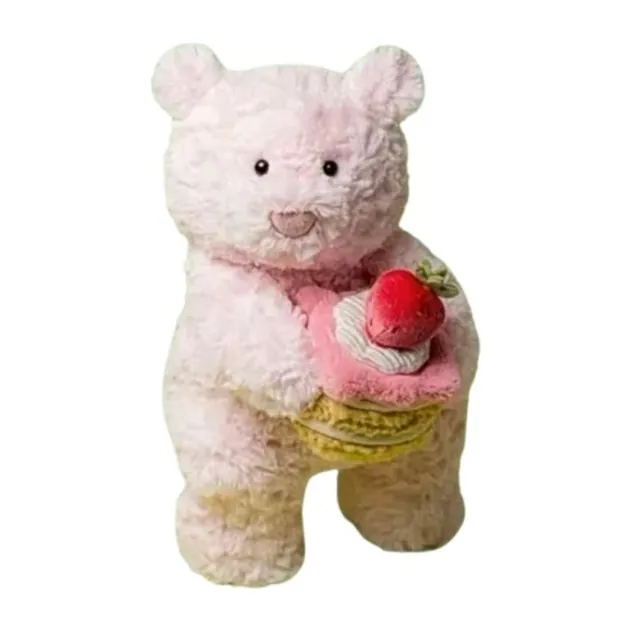
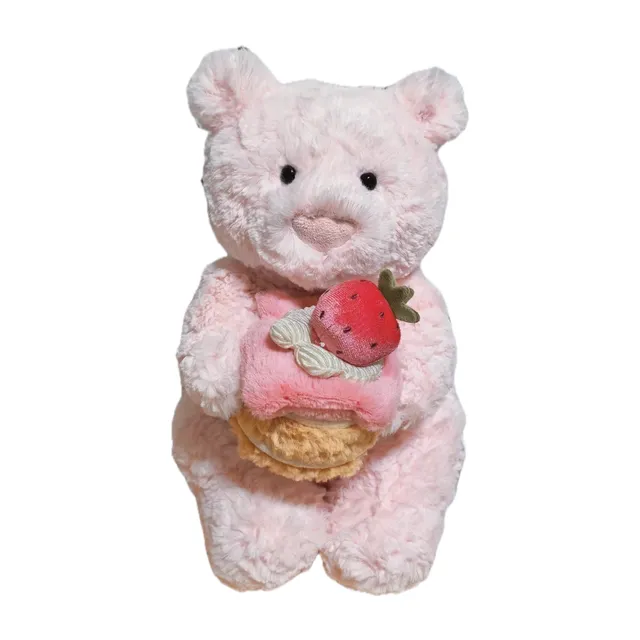
Preview: Shop đồng bộ font Bricolage + Plus Jakarta Sans; ảnh mới Leola Bear Strawberry Cake

diff --git a/bunniihaus_design.html b/bunniihaus_design.html
@@ -175,10 +175,10 @@ j=d.createElement(s),dl=l!='dataLayer'?'&l='+l:'';j.async=true;j.src=
 <link rel="preconnect" href="https://fonts.gstatic.com" crossorigin>
 <link rel="preconnect" href="https://fonts.cdnfonts.com" crossorigin>
 <!-- Fonts loaded NON-BLOCKING: text paints instantly in fallback, swaps when ready -->
-<link rel="preload" as="style" href="https://fonts.googleapis.com/css2?family=Playfair+Display:ital,wght@0,600;0,700;1,500;1,600&family=Jost:ital,wght@0,500;1,500&family=Tenor+Sans&family=Be+Vietnam+Pro:wght@400;500;600;700;800&display=swap" onload="this.onload=null;this.rel='stylesheet'">
+<link rel="preload" as="style" href="https://fonts.googleapis.com/css2?family=Bricolage+Grotesque:opsz,wght@12..96,400..600&family=Plus+Jakarta+Sans:ital,wght@0,400..800;1,400..600&family=Tenor+Sans&display=swap" onload="this.onload=null;this.rel='stylesheet'">
 <link rel="preload" as="style" href="https://fonts.cdnfonts.com/css/svn-gilroy" onload="this.onload=null;this.rel='stylesheet'">
 <noscript>
-<link href="https://fonts.googleapis.com/css2?family=Playfair+Display:ital,wght@0,600;0,700;1,500;1,600&family=Jost:ital,wght@0,500;1,500&family=Tenor+Sans&family=Be+Vietnam+Pro:wght@400;500;600;700;800&display=swap" rel="stylesheet">
+<link href="https://fonts.googleapis.com/css2?family=Bricolage+Grotesque:opsz,wght@12..96,400..600&family=Plus+Jakarta+Sans:ital,wght@0,400..800;1,400..600&family=Tenor+Sans&display=swap" rel="stylesheet">
 <link href="https://fonts.cdnfonts.com/css/svn-gilroy" rel="stylesheet">
 </noscript>
 <!-- LCP: preload featured hero image so it paints fast -->
@@ -188,7 +188,8 @@ j=d.createElement(s),dl=l!='dataLayer'?'&l='+l:'';j.async=true;j.src=
 :root{
   --pink:#FF6B8A; --pink-deep:#e85578; --orange:#FF9A6C; --cyan:#37DEE7;
   --bg:#F8F8F8; --card-bg:radial-gradient(circle at 50% 42%,#FFFFFF 0%,#FBFAF8 55%,#F4F3F0 100%); --ink:#111; --mute:#888; --line:rgba(0,0,0,0.07);
-  --font-vn:'Be Vietnam Pro','SVN-Gilroy','Outfit',system-ui,-apple-system,sans-serif;
+  --font-vn:'Plus Jakarta Sans',system-ui,-apple-system,sans-serif;
+  --font-display:'Bricolage Grotesque','Plus Jakarta Sans',system-ui,sans-serif;
 }
 html{scroll-behavior:smooth}
 body{background:var(--bg);font-family:var(--font-vn);color:var(--ink);min-height:100vh;-webkit-font-smoothing:antialiased}
@@ -337,13 +338,13 @@ a.chip,a.subchip{text-decoration:none;-webkit-touch-callout:default}
 .bdec{position:absolute;width:160px;height:160px;border-radius:50%;background:rgba(255,255,255,.1);right:-40px;top:-40px}
 .bz{position:relative;z-index:1}
 .btag{font-size:9.5px;font-weight:600;letter-spacing:.18em;color:rgba(255,255,255,.6);text-transform:uppercase;margin-bottom:10px}
-.btitle{font-family:'Playfair Display',serif;font-size:22px;line-height:1.2;margin-bottom:8px}
+.btitle{font-family:var(--font-display);font-weight:500;font-size:22px;line-height:1.2;margin-bottom:8px}
 .btitle span{font-style:italic}
 .bsub{font-size:11px;color:rgba(255,255,255,.7);margin-bottom:18px;line-height:1.55}
 .brow{display:flex;border-top:1px solid rgba(255,255,255,.22);padding-top:14px}
 .bst{flex:1;text-align:center}
 .bst+.bst{border-left:1px solid rgba(255,255,255,.22)}
-.bsn{font-family:'Playfair Display',serif;font-size:20px;line-height:1.15}
+.bsn{font-family:var(--font-display);font-weight:500;font-size:20px;line-height:1.15}
 .bsl{font-size:9px;color:rgba(255,255,255,.65);letter-spacing:.1em;text-transform:uppercase;margin-top:3px}
 
 /* ── FOOTER ────────────────────────────────────────────────────────── */
@@ -398,7 +399,7 @@ a.chip,a.subchip{text-decoration:none;-webkit-touch-callout:default}
 .lb-img{max-width:92vw;max-height:78vh;object-fit:contain;border-radius:14px;animation:zoomIn .3s cubic-bezier(.25,.46,.45,.94);box-shadow:0 30px 80px rgba(0,0,0,.5);background:#fff;padding:18px}
 @keyframes zoomIn{from{transform:scale(.85);opacity:0}to{transform:scale(1);opacity:1}}
 .lb-info{margin-top:18px;text-align:center;color:#fff;max-width:90vw}
-.lb-name{font-family:'Playfair Display',serif;font-size:20px;font-weight:600;margin-bottom:4px}
+.lb-name{font-family:var(--font-display);font-size:20px;font-weight:500;margin-bottom:4px}
 .lb-meta{font-size:11px;color:rgba(255,255,255,.55);letter-spacing:.06em;text-transform:uppercase;margin-bottom:10px}
 .lb-price{font-size:16px;font-weight:700;color:#FFB4C5;margin-bottom:14px}
 .lb-cta{display:inline-flex;align-items:center;gap:6px;padding:11px 22px;background:var(--pink);color:#fff;border-radius:22px;font-size:12px;font-weight:700;text-decoration:none;transition:all .18s}
@@ -505,9 +506,9 @@ a.chip,a.subchip{text-decoration:none;-webkit-touch-callout:default}
   .mason{grid-template-columns:repeat(4,1fr)}
 }
 /* ── TYPOGRAPHY (Patrick Ta-style scale: geometric sans, tight title-case names, uppercase labels/buttons) ── */
-.chip{font-weight:400;letter-spacing:-.005em}
+.chip{font-family:var(--font-display);font-weight:400;letter-spacing:-.005em}
 .chip.on{font-weight:500}
-.pcn{font-size:14px;font-weight:500;line-height:1.12;letter-spacing:-.015em}
+.pcn{font-family:var(--font-display);font-size:14.5px;font-weight:500;line-height:1.15;letter-spacing:-.015em}
 .pcs{font-weight:500;letter-spacing:.08em}
 .pcp{font-size:13.5px;font-weight:600;letter-spacing:-.02em;white-space:nowrap}
 .pcf{gap:4px;padding-left:10px;padding-right:9px}
@@ -515,7 +516,7 @@ a.chip,a.subchip{text-decoration:none;-webkit-touch-callout:default}
 .pcb span{font-weight:500;font-size:9.5px}
 .cnt{font-weight:800;color:#999;letter-spacing:.04em}
 .sortbtn{font-weight:500;text-transform:uppercase;letter-spacing:.04em}
-.lb-name{font-family:var(--font-vn);font-weight:600;letter-spacing:-.015em;line-height:1.15}
+.lb-name{font-family:var(--font-display);font-weight:500;letter-spacing:-.02em;line-height:1.15}
 .lb-cta{font-weight:500}
 .fb{font-weight:500;text-transform:uppercase;letter-spacing:.04em}
 @media(min-width:768px){
@@ -1029,7 +1030,7 @@ const PRODUCTS = [
   {id:332,name:"Bartholomew Bear 'Bumblebee'",collection:"Bear",price:"2250k",priceNum:2250,shapeBg:"#FFF9F0",img:"img/Bartholomew%20Bear%20Bumblebee.webp"},
   {id:333,name:"Bartholomew Bear Comforter",collection:"Bear",price:"1050k",priceNum:1050,shapeBg:"#FFF5F7",img:"img/Bartholomew%20Bear%20Comforter.webp"},
   {id:335,name:"Bartholomew Bear — Really Big",collection:"Bear",label:"Really Big",price:"6290k",priceNum:6290,shapeBg:"#FFFCEF",img:"img/Bartholomew%20Bear%20Huge.webp"},
-  {id:336,name:"Leola Bear with Strawberry Cake",collection:"Bear",price:"2550k",priceNum:2550,shapeBg:"#FFF8F2",img:"img/Leola%20Bear%20Strawberry%20Cake.webp"},
+  {id:336,name:"Leola Bear with Strawberry Cake",collection:"Bear",price:"2550k",priceNum:2550,shapeBg:"#FFF8F2",img:"img/Leola%20Bear%20Strawberry%20Cake.webp?v=2"},
   {id:337,name:"Bartholomew Bear — Small",collection:"Bear",label:"Small",price:"950k",priceNum:950,shapeBg:"#FFFBFA",img:"img/Bartholomew%20Bear.webp"},
   {id:338,name:"Leola Bear — Large",collection:"Bear",label:"Large",price:"1790k",priceNum:1790,shapeBg:"#FFF6F0",img:"img/Leola%20Bear.webp"},
   {id:339,name:"Oatus Bear with Ice Cream",collection:"Bear",price:"2950k",priceNum:2950,badge:"NYC Exclusive",shapeBg:"#FFFAF0",img:"img/Oatus%20Bear%20Ice%20Cream.webp"},

diff --git a/shop.html b/shop.html
@@ -175,10 +175,10 @@ j=d.createElement(s),dl=l!='dataLayer'?'&l='+l:'';j.async=true;j.src=
 <link rel="preconnect" href="https://fonts.gstatic.com" crossorigin>
 <link rel="preconnect" href="https://fonts.cdnfonts.com" crossorigin>
 <!-- Fonts loaded NON-BLOCKING: text paints instantly in fallback, swaps when ready -->
-<link rel="preload" as="style" href="https://fonts.googleapis.com/css2?family=Playfair+Display:ital,wght@0,600;0,700;1,500;1,600&family=Jost:ital,wght@0,500;1,500&family=Tenor+Sans&family=Be+Vietnam+Pro:wght@400;500;600;700;800&display=swap" onload="this.onload=null;this.rel='stylesheet'">
+<link rel="preload" as="style" href="https://fonts.googleapis.com/css2?family=Bricolage+Grotesque:opsz,wght@12..96,400..600&family=Plus+Jakarta+Sans:ital,wght@0,400..800;1,400..600&family=Tenor+Sans&display=swap" onload="this.onload=null;this.rel='stylesheet'">
 <link rel="preload" as="style" href="https://fonts.cdnfonts.com/css/svn-gilroy" onload="this.onload=null;this.rel='stylesheet'">
 <noscript>
-<link href="https://fonts.googleapis.com/css2?family=Playfair+Display:ital,wght@0,600;0,700;1,500;1,600&family=Jost:ital,wght@0,500;1,500&family=Tenor+Sans&family=Be+Vietnam+Pro:wght@400;500;600;700;800&display=swap" rel="stylesheet">
+<link href="https://fonts.googleapis.com/css2?family=Bricolage+Grotesque:opsz,wght@12..96,400..600&family=Plus+Jakarta+Sans:ital,wght@0,400..800;1,400..600&family=Tenor+Sans&display=swap" rel="stylesheet">
 <link href="https://fonts.cdnfonts.com/css/svn-gilroy" rel="stylesheet">
 </noscript>
 <!-- LCP: preload featured hero image so it paints fast -->
@@ -188,7 +188,8 @@ j=d.createElement(s),dl=l!='dataLayer'?'&l='+l:'';j.async=true;j.src=
 :root{
   --pink:#FF6B8A; --pink-deep:#e85578; --orange:#FF9A6C; --cyan:#37DEE7;
   --bg:#F8F8F8; --card-bg:radial-gradient(circle at 50% 42%,#FFFFFF 0%,#FBFAF8 55%,#F4F3F0 100%); --ink:#111; --mute:#888; --line:rgba(0,0,0,0.07);
-  --font-vn:'Be Vietnam Pro','SVN-Gilroy','Outfit',system-ui,-apple-system,sans-serif;
+  --font-vn:'Plus Jakarta Sans',system-ui,-apple-system,sans-serif;
+  --font-display:'Bricolage Grotesque','Plus Jakarta Sans',system-ui,sans-serif;
 }
 html{scroll-behavior:smooth}
 body{background:var(--bg);font-family:var(--font-vn);color:var(--ink);min-height:100vh;-webkit-font-smoothing:antialiased}
@@ -337,13 +338,13 @@ a.chip,a.subchip{text-decoration:none;-webkit-touch-callout:default}
 .bdec{position:absolute;width:160px;height:160px;border-radius:50%;background:rgba(255,255,255,.1);right:-40px;top:-40px}
 .bz{position:relative;z-index:1}
 .btag{font-size:9.5px;font-weight:600;letter-spacing:.18em;color:rgba(255,255,255,.6);text-transform:uppercase;margin-bottom:10px}
-.btitle{font-family:'Playfair Display',serif;font-size:22px;line-height:1.2;margin-bottom:8px}
+.btitle{font-family:var(--font-display);font-weight:500;font-size:22px;line-height:1.2;margin-bottom:8px}
 .btitle span{font-style:italic}
 .bsub{font-size:11px;color:rgba(255,255,255,.7);margin-bottom:18px;line-height:1.55}
 .brow{display:flex;border-top:1px solid rgba(255,255,255,.22);padding-top:14px}
 .bst{flex:1;text-align:center}
 .bst+.bst{border-left:1px solid rgba(255,255,255,.22)}
-.bsn{font-family:'Playfair Display',serif;font-size:20px;line-height:1.15}
+.bsn{font-family:var(--font-display);font-weight:500;font-size:20px;line-height:1.15}
 .bsl{font-size:9px;color:rgba(255,255,255,.65);letter-spacing:.1em;text-transform:uppercase;margin-top:3px}
 
 /* ── FOOTER ────────────────────────────────────────────────────────── */
@@ -398,7 +399,7 @@ a.chip,a.subchip{text-decoration:none;-webkit-touch-callout:default}
 .lb-img{max-width:92vw;max-height:78vh;object-fit:contain;border-radius:14px;animation:zoomIn .3s cubic-bezier(.25,.46,.45,.94);box-shadow:0 30px 80px rgba(0,0,0,.5);background:#fff;padding:18px}
 @keyframes zoomIn{from{transform:scale(.85);opacity:0}to{transform:scale(1);opacity:1}}
 .lb-info{margin-top:18px;text-align:center;color:#fff;max-width:90vw}
-.lb-name{font-family:'Playfair Display',serif;font-size:20px;font-weight:600;margin-bottom:4px}
+.lb-name{font-family:var(--font-display);font-size:20px;font-weight:500;margin-bottom:4px}
 .lb-meta{font-size:11px;color:rgba(255,255,255,.55);letter-spacing:.06em;text-transform:uppercase;margin-bottom:10px}
 .lb-price{font-size:16px;font-weight:700;color:#FFB4C5;margin-bottom:14px}
 .lb-cta{display:inline-flex;align-items:center;gap:6px;padding:11px 22px;background:var(--pink);color:#fff;border-radius:22px;font-size:12px;font-weight:700;text-decoration:none;transition:all .18s}
@@ -505,9 +506,9 @@ a.chip,a.subchip{text-decoration:none;-webkit-touch-callout:default}
   .mason{grid-template-columns:repeat(4,1fr)}
 }
 /* ── TYPOGRAPHY (Patrick Ta-style scale: geometric sans, tight title-case names, uppercase labels/buttons) ── */
-.chip{font-weight:400;letter-spacing:-.005em}
+.chip{font-family:var(--font-display);font-weight:400;letter-spacing:-.005em}
 .chip.on{font-weight:500}
-.pcn{font-size:14px;font-weight:500;line-height:1.12;letter-spacing:-.015em}
+.pcn{font-family:var(--font-display);font-size:14.5px;font-weight:500;line-height:1.15;letter-spacing:-.015em}
 .pcs{font-weight:500;letter-spacing:.08em}
 .pcp{font-size:13.5px;font-weight:600;letter-spacing:-.02em;white-space:nowrap}
 .pcf{gap:4px;padding-left:10px;padding-right:9px}
@@ -515,7 +516,7 @@ a.chip,a.subchip{text-decoration:none;-webkit-touch-callout:default}
 .pcb span{font-weight:500;font-size:9.5px}
 .cnt{font-weight:800;color:#999;letter-spacing:.04em}
 .sortbtn{font-weight:500;text-transform:uppercase;letter-spacing:.04em}
-.lb-name{font-family:var(--font-vn);font-weight:600;letter-spacing:-.015em;line-height:1.15}
+.lb-name{font-family:var(--font-display);font-weight:500;letter-spacing:-.02em;line-height:1.15}
 .lb-cta{font-weight:500}
 .fb{font-weight:500;text-transform:uppercase;letter-spacing:.04em}
 @media(min-width:768px){
@@ -1029,7 +1030,7 @@ const PRODUCTS = [
   {id:332,name:"Bartholomew Bear 'Bumblebee'",collection:"Bear",price:"2250k",priceNum:2250,shapeBg:"#FFF9F0",img:"img/Bartholomew%20Bear%20Bumblebee.webp"},
   {id:333,name:"Bartholomew Bear Comforter",collection:"Bear",price:"1050k",priceNum:1050,shapeBg:"#FFF5F7",img:"img/Bartholomew%20Bear%20Comforter.webp"},
   {id:335,name:"Bartholomew Bear — Really Big",collection:"Bear",label:"Really Big",price:"6290k",priceNum:6290,shapeBg:"#FFFCEF",img:"img/Bartholomew%20Bear%20Huge.webp"},
-  {id:336,name:"Leola Bear with Strawberry Cake",collection:"Bear",price:"2550k",priceNum:2550,shapeBg:"#FFF8F2",img:"img/Leola%20Bear%20Strawberry%20Cake.webp"},
+  {id:336,name:"Leola Bear with Strawberry Cake",collection:"Bear",price:"2550k",priceNum:2550,shapeBg:"#FFF8F2",img:"img/Leola%20Bear%20Strawberry%20Cake.webp?v=2"},
   {id:337,name:"Bartholomew Bear — Small",collection:"Bear",label:"Small",price:"950k",priceNum:950,shapeBg:"#FFFBFA",img:"img/Bartholomew%20Bear.webp"},
   {id:338,name:"Leola Bear — Large",collection:"Bear",label:"Large",price:"1790k",priceNum:1790,shapeBg:"#FFF6F0",img:"img/Leola%20Bear.webp"},
   {id:339,name:"Oatus Bear with Ice Cream",collection:"Bear",price:"2950k",priceNum:2950,badge:"NYC Exclusive",shapeBg:"#FFFAF0",img:"img/Oatus%20Bear%20Ice%20Cream.webp"},
